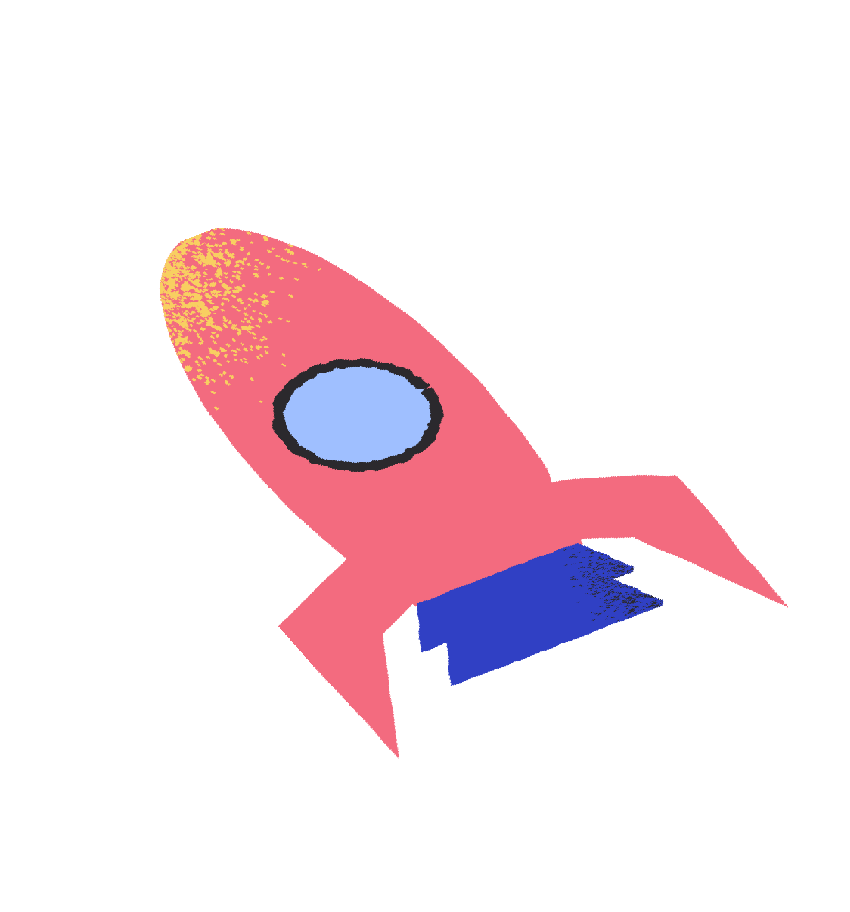
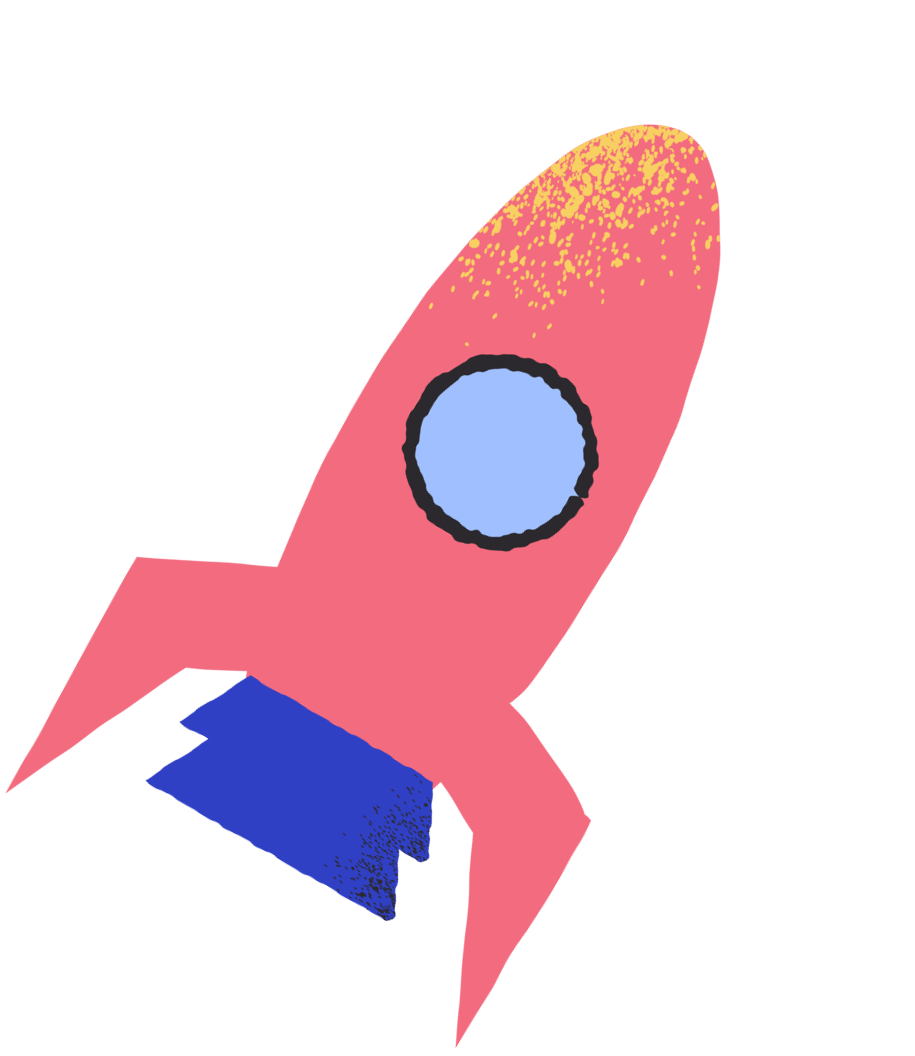
update art for login

Changed region(s): [[0.0, 0.0921, 0.9176, 0.9825]]

diff --git a/src/main/resources/static/CSS/login.css b/src/main/resources/static/CSS/login.css
@@ -29,9 +29,9 @@ a {
 .container {
   /* background: linear-gradient(to top right, white, gray, white); */
   background: url(../images/pablo-819.png), url(../images/pablo-7541.png);
-  background-position: 5% 10%, 85% 10%;
+  background-position: 5% 70%, 85% 70%;
   background-repeat: no-repeat;
-  background-size: 35%, 30%;
+  background-size: 30%, 20%;
   height: 100%;
   width: 100%;
   display: flex;
